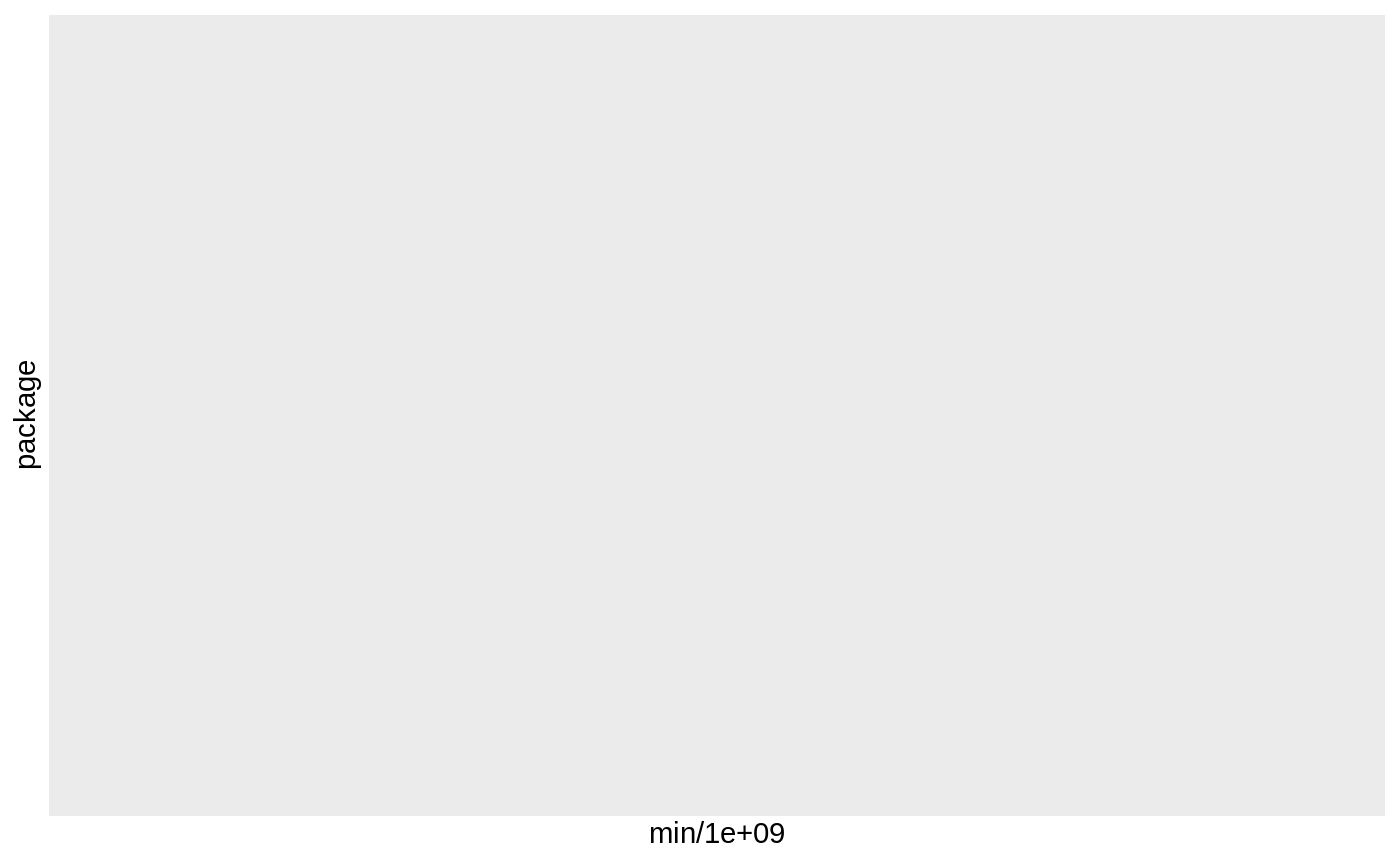
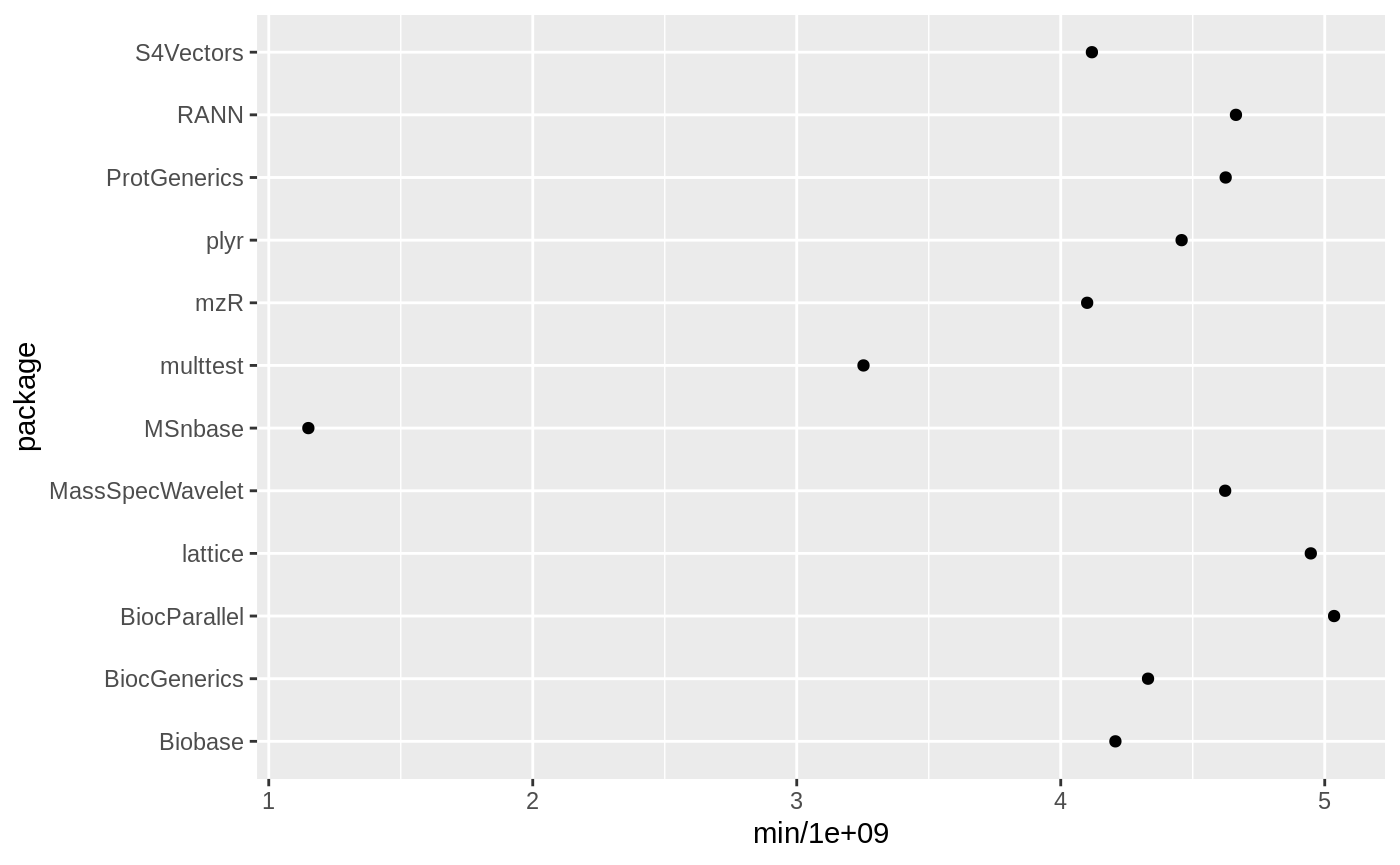
had wrong package name still lingering around places

diff --git a/docs/articles/example-timings.html b/docs/articles/example-timings.html
@@ -108,10 +108,10 @@
 <div class="sourceCode" id="cb2"><pre class="sourceCode r"><code class="sourceCode r"><a class="sourceLine" id="cb2-1" data-line-number="1"><span class="co"># not run</span></a>
 <a class="sourceLine" id="cb2-2" data-line-number="2"><span class="kw"><a href="https://www.rdocumentation.org/packages/base/topics/library">library</a></span>(furrr)</a>
 <a class="sourceLine" id="cb2-3" data-line-number="3"><span class="kw">plan</span>(multiprocess)</a>
-<a class="sourceLine" id="cb2-4" data-line-number="4"><span class="kw"><a href="https://www.rdocumentation.org/packages/base/topics/library">library</a></span>(dependencyTimings)</a>
-<a class="sourceLine" id="cb2-5" data-line-number="5">xcms_time =<span class="st"> </span><span class="kw"><a href="https://www.rdocumentation.org/packages/dependencyTimings/topics/dependency_timings">dependency_timings</a></span>(<span class="st">"xcms"</span>)</a></code></pre></div>
+<a class="sourceLine" id="cb2-4" data-line-number="4"><span class="kw"><a href="https://www.rdocumentation.org/packages/base/topics/library">library</a></span>(importedPackageTimings)</a>
+<a class="sourceLine" id="cb2-5" data-line-number="5">xcms_time =<span class="st"> </span><span class="kw"><a href="../reference/imported_timings.html">imported_timings</a></span>(<span class="st">"xcms"</span>)</a></code></pre></div>
 <p>The package provides two types of timings, the time required for the dependency to load (type = <code>pkg</code>), and then the time required for the package to load after the dependency (type = <code>after</code>).</p>
-<div class="sourceCode" id="cb3"><pre class="sourceCode r"><code class="sourceCode r"><a class="sourceLine" id="cb3-1" data-line-number="1"><span class="kw"><a href="https://www.rdocumentation.org/packages/base/topics/library">library</a></span>(dependencyTimings)</a>
+<div class="sourceCode" id="cb3"><pre class="sourceCode r"><code class="sourceCode r"><a class="sourceLine" id="cb3-1" data-line-number="1"><span class="kw"><a href="https://www.rdocumentation.org/packages/base/topics/library">library</a></span>(importedPackageTimings)</a>
 <a class="sourceLine" id="cb3-2" data-line-number="2"><span class="kw"><a href="https://www.rdocumentation.org/packages/utils/topics/data">data</a></span>(<span class="st">"xcms_time"</span>)</a>
 <a class="sourceLine" id="cb3-3" data-line-number="3">knitr<span class="op">::</span><span class="kw"><a href="https://www.rdocumentation.org/packages/knitr/topics/kable">kable</a></span>(<span class="kw"><a href="https://www.rdocumentation.org/packages/utils/topics/head">head</a></span>(dplyr<span class="op">::</span><span class="kw"><a href="https://dplyr.tidyverse.org/reference/select.html">select</a></span>(xcms_time, <span class="op">-</span>timings)))</a></code></pre></div>
 <table class="table">
@@ -126,51 +126,51 @@
 <tbody>
 <tr class="odd">
 <td align="left">xcms</td>
-<td align="right">4778278343</td>
-<td align="right">4681984630</td>
-<td align="right">5778610598</td>
+<td align="right">4777753784</td>
+<td align="right">4540154629</td>
+<td align="right">5047299157</td>
 <td align="left">pkg</td>
 <td align="left">self</td>
 </tr>
 <tr class="even">
 <td align="left">xcms</td>
-<td align="right">107462</td>
-<td align="right">84889</td>
-<td align="right">120001</td>
+<td align="right">120612</td>
+<td align="right">118835</td>
+<td align="right">153174</td>
 <td align="left">after</td>
 <td align="left">self</td>
 </tr>
 <tr class="odd">
 <td align="left">mzR</td>
-<td align="right">534137265</td>
-<td align="right">525806550</td>
-<td align="right">541874685</td>
+<td align="right">695070041</td>
+<td align="right">654965228</td>
+<td align="right">726937410</td>
 <td align="left">pkg</td>
-<td align="left">other</td>
+<td align="left">import</td>
 </tr>
 <tr class="even">
 <td align="left">mzR</td>
-<td align="right">4214925198</td>
-<td align="right">4191767504</td>
-<td align="right">4438095791</td>
+<td align="right">4188562694</td>
+<td align="right">4100112954</td>
+<td align="right">4393323772</td>
 <td align="left">after</td>
-<td align="left">other</td>
+<td align="left">import</td>
 </tr>
 <tr class="odd">
 <td align="left">BiocGenerics</td>
-<td align="right">109121244</td>
-<td align="right">107433789</td>
-<td align="right">112863680</td>
+<td align="right">146176624</td>
+<td align="right">132330703</td>
+<td align="right">160247180</td>
 <td align="left">pkg</td>
-<td align="left">other</td>
+<td align="left">import</td>
 </tr>
 <tr class="even">
 <td align="left">BiocGenerics</td>
-<td align="right">4599559517</td>
-<td align="right">4573516876</td>
-<td align="right">4704692609</td>
+<td align="right">4520280675</td>
+<td align="right">4330646417</td>
+<td align="right">4579202503</td>
 <td align="left">after</td>
-<td align="left">other</td>
+<td align="left">import</td>
 </tr>
 </tbody>
 </table>

diff --git a/docs/index.html b/docs/index.html
@@ -109,7 +109,7 @@
 <a class="sourceLine" id="cb2-2" data-line-number="2"><span class="kw"><a href="https://www.rdocumentation.org/packages/base/topics/library">library</a></span>(furrr)</a>
 <a class="sourceLine" id="cb2-3" data-line-number="3"><span class="kw">plan</span>(multiprocess)</a>
 <a class="sourceLine" id="cb2-4" data-line-number="4"><span class="kw"><a href="https://www.rdocumentation.org/packages/base/topics/library">library</a></span>(importedPackageTimings)</a>
-<a class="sourceLine" id="cb2-5" data-line-number="5">xcms_time =<span class="st"> </span><span class="kw">dependency_timings</span>(<span class="st">"xcms"</span>)</a></code></pre></div>
+<a class="sourceLine" id="cb2-5" data-line-number="5">xcms_time =<span class="st"> </span><span class="kw"><a href="reference/imported_timings.html">imported_timings</a></span>(<span class="st">"xcms"</span>)</a></code></pre></div>
 <p>The package provides two types of timings, the time required for the dependency to load (type = <code>pkg</code>), and then the time required for the package to load after the dependency (type = <code>after</code>).</p>
 <div class="sourceCode" id="cb3"><pre class="sourceCode r"><code class="sourceCode r"><a class="sourceLine" id="cb3-1" data-line-number="1"><span class="kw"><a href="https://www.rdocumentation.org/packages/utils/topics/data">data</a></span>(xcms_time)</a>
 <a class="sourceLine" id="cb3-2" data-line-number="2">knitr<span class="op">::</span><span class="kw"><a href="https://www.rdocumentation.org/packages/knitr/topics/kable">kable</a></span>(<span class="kw"><a href="https://www.rdocumentation.org/packages/utils/topics/head">head</a></span>(dplyr<span class="op">::</span><span class="kw"><a href="https://dplyr.tidyverse.org/reference/select.html">select</a></span>(xcms_time, <span class="op">-</span>timings)))</a></code></pre></div>

diff --git a/README.md b/README.md
@@ -52,7 +52,7 @@ time to load, `xcms`.
 library(furrr)
 plan(multiprocess)
 library(importedPackageTimings)
-xcms_time = dependency_timings("xcms")
+xcms_time = imported_timings("xcms")
 ```
 
 The package provides two types of timings, the time required for the
